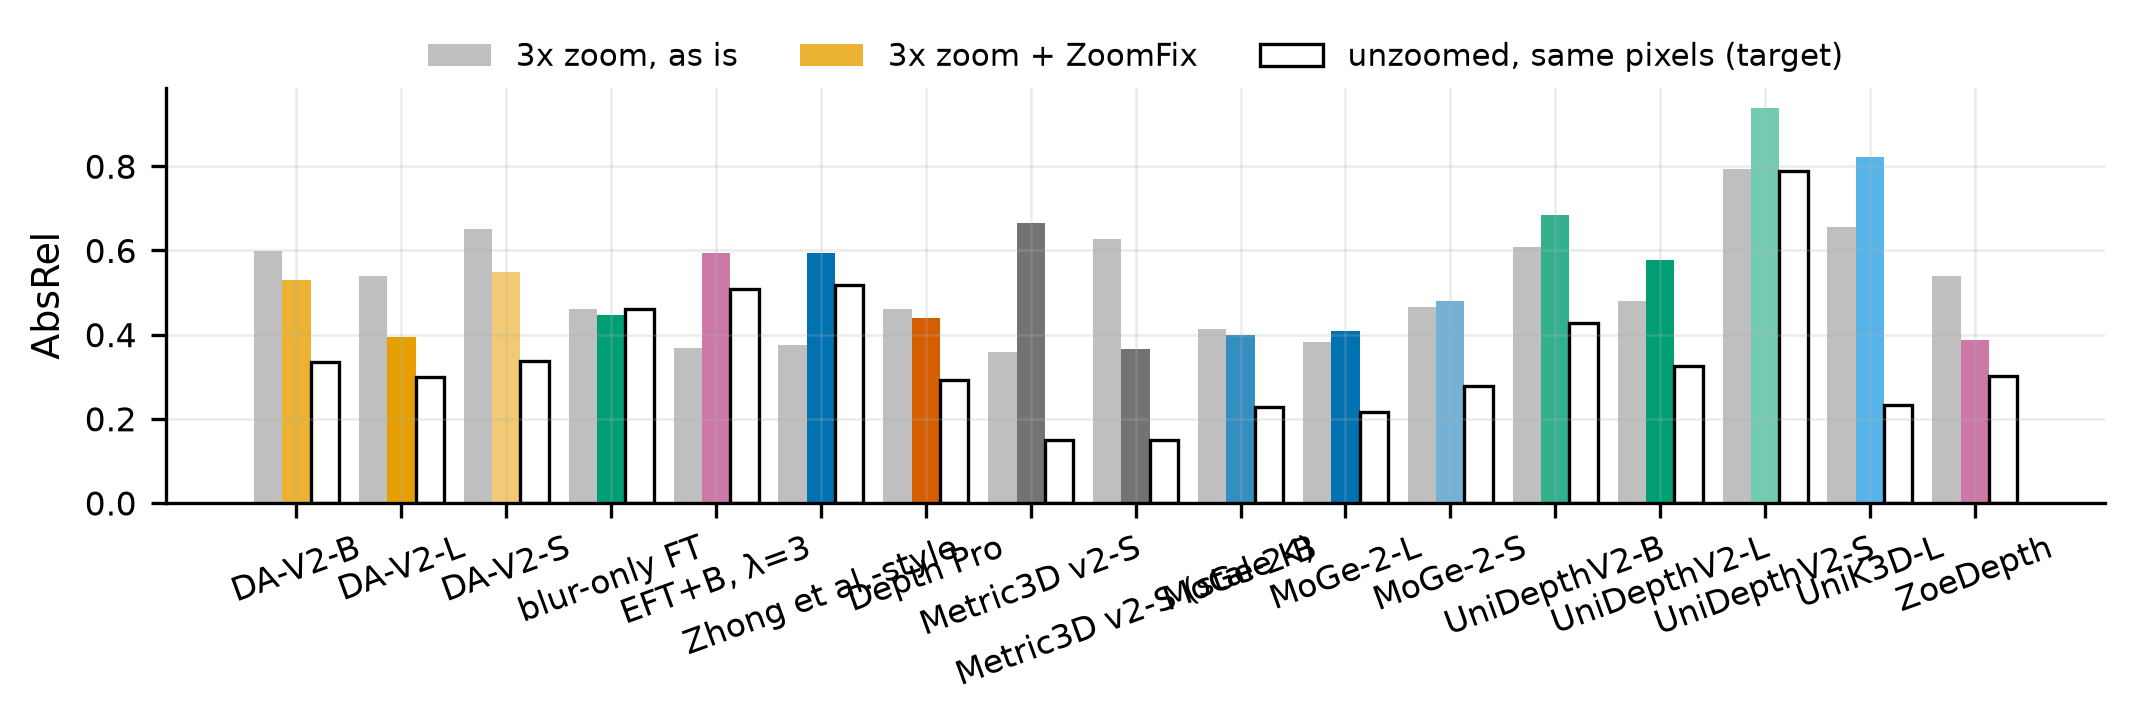
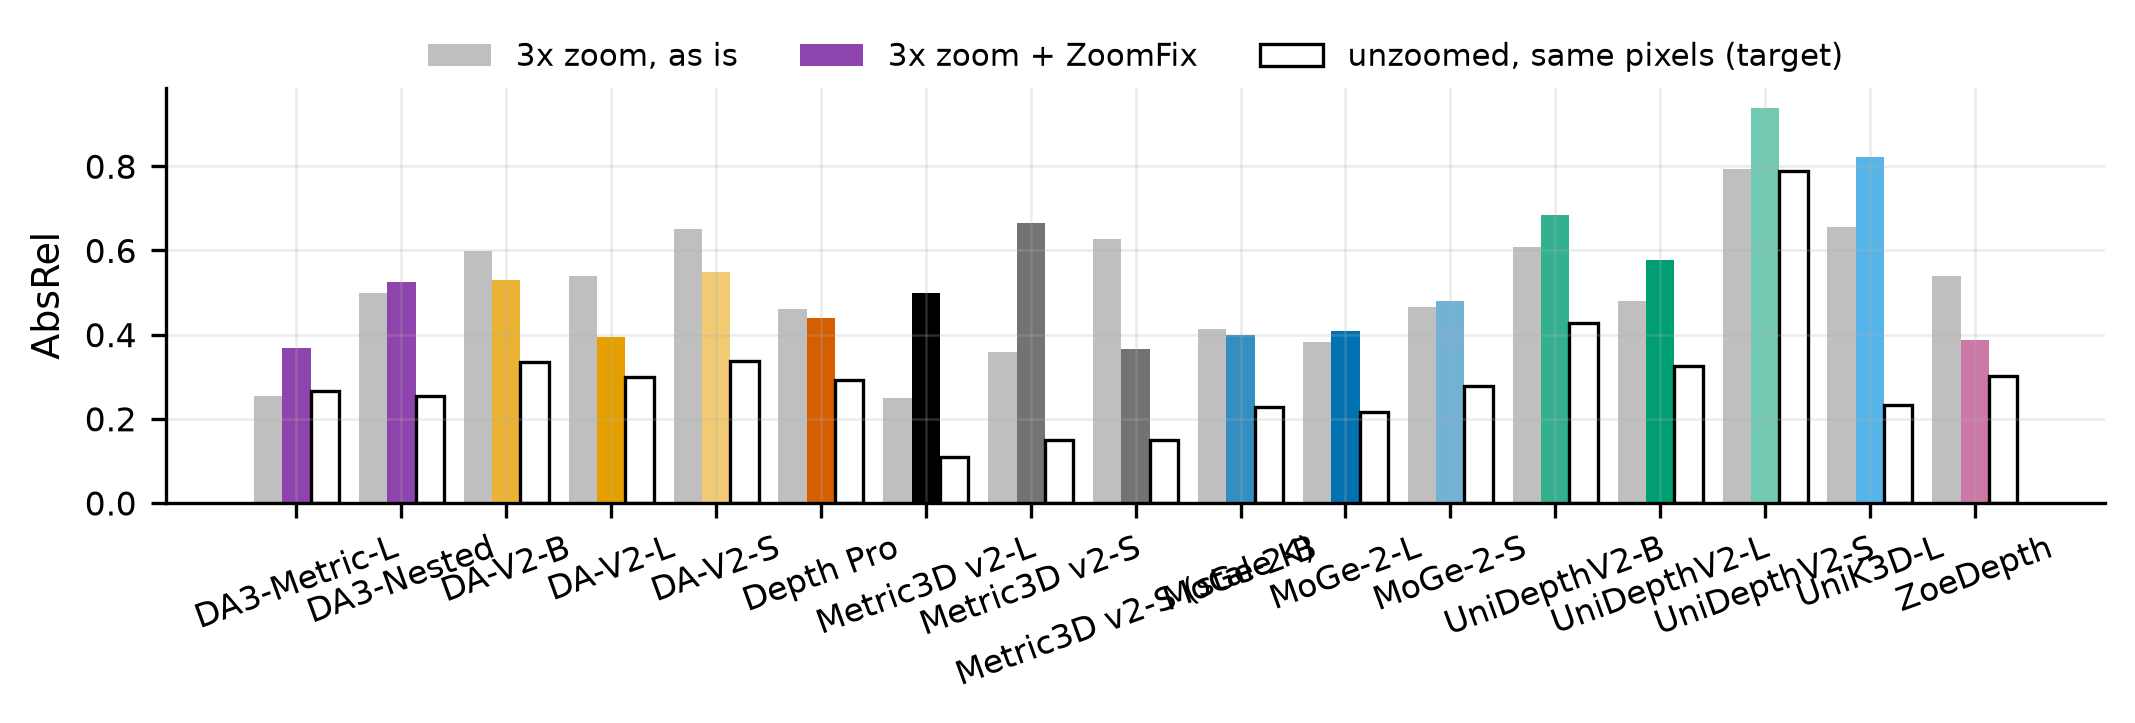
Notebook 04 ZoomFix: also leave out the runs given the true camera (-k), which already know the zoom; only deployed metric models remain, as in the paper's table

diff --git a/notebooks/04_off_centre_and_stale_K.py b/notebooks/04_off_centre_and_stale_K.py
@@ -96,9 +96,12 @@ stale.round(3)
 # ## 4. ZoomFix: a training-free correction when the zoom factor is known
 
 # %%
-# deployed metric models only: not the fine-tuned variants (their own notebook), not DA3-L and VGGT, which
-# normalise depth per scene, so a metric correction means nothing for them
-deployed = [m for m in main.model.unique() if not m.startswith("dav2-s-") and m not in ("depthpro-eftf", "da3-l", "vggt", "geocalib")]
+# deployed metric models only: not the fine-tuned variants (their own notebook), not the runs given the true
+# camera ("-k": they already know the zoom), not DA3-L and VGGT, which normalise depth per scene, so a metric
+# correction means nothing for them, and not GeoCalib, which predicts no depth
+deployed = [m for m in main.model.unique()
+            if not m.startswith("dav2-s-") and not m.endswith("-k")
+            and m not in ("depthpro-eftf", "da3-l", "vggt", "geocalib")]
 pi = A.per_image(main[main.model.isin(deployed)])
 fix = A.zoomfix(pi)
 if len(fix):
